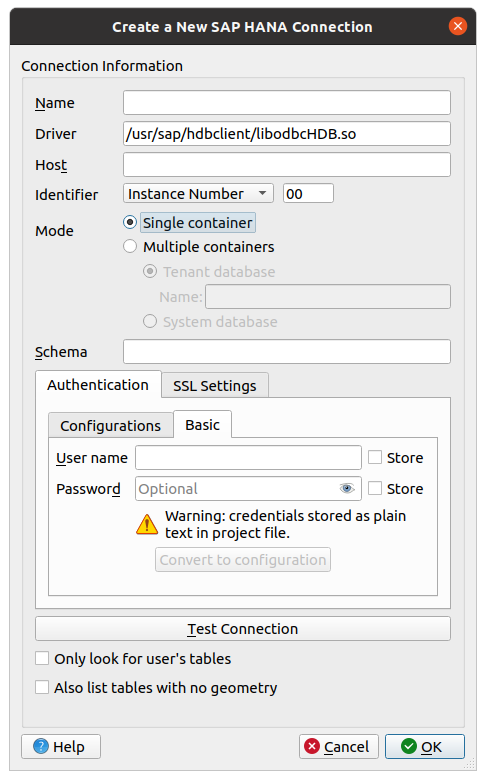
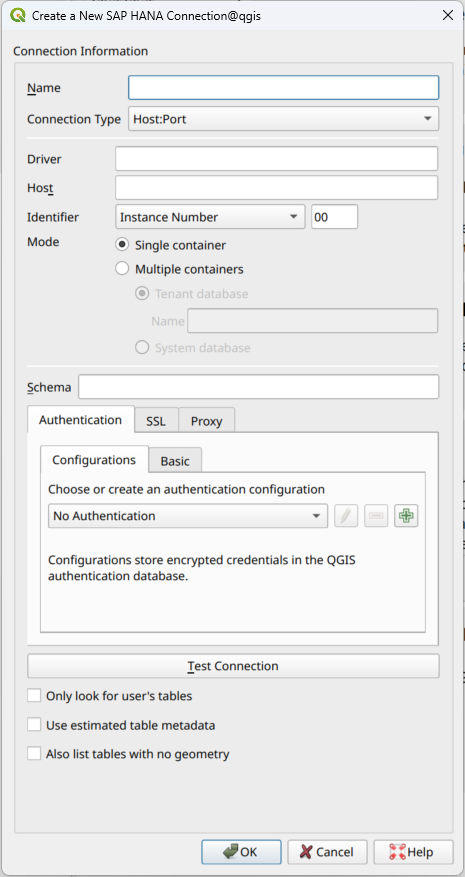
HANA Provider: Add documentation for estimated metadata option

Changed region(s): [[0.0, 0.0, 1.0, 1.0], [0.9032, 0.3692, 0.9333, 0.4]]

diff --git a/docs/user_manual/managing_data_source/opening_data.rst b/docs/user_manual/managing_data_source/opening_data.rst
@@ -1223,6 +1223,13 @@ The following parameters can be entered:
   only for tables and views that are owned by the user that connects to the
   database.
 
+* |checkbox| :guilabel:`Use estimated table metadata`: If checked, estimated
+  table metadata will be used if available. For large tables, this avoids slow
+  table loads and potentially expensive computations, but may result in
+  incorrect layer properties such as layer extent. The fast extent estimation
+  is available starting with QRC1/2024 and SP8 in HANA Cloud and HANA On-Premise
+  respectively.
+
 * |checkbox| :guilabel:`Also list tables with no geometries`: If checked, QGIS
   searches also for tables and views that do not contain a spatial column.
 
